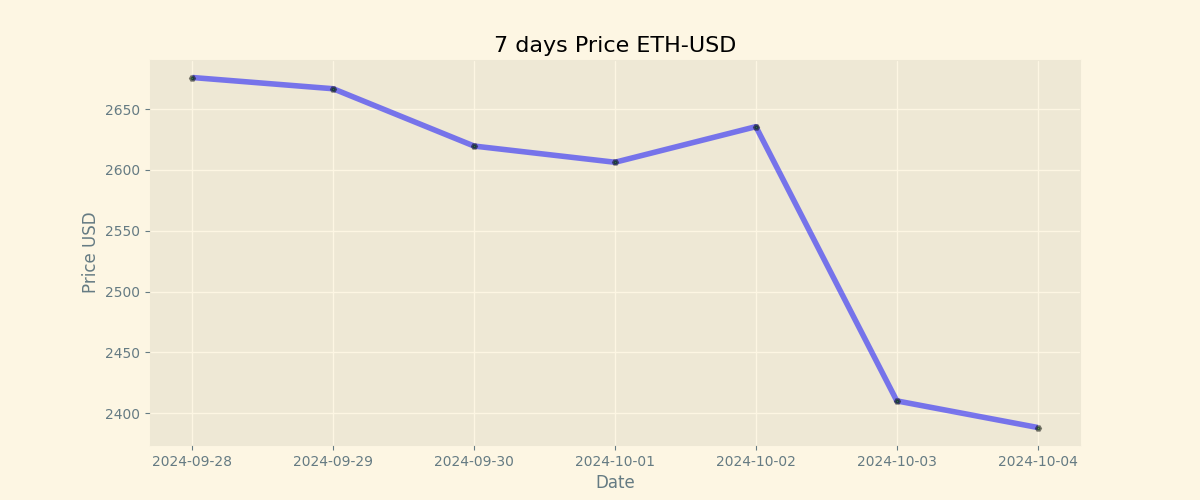
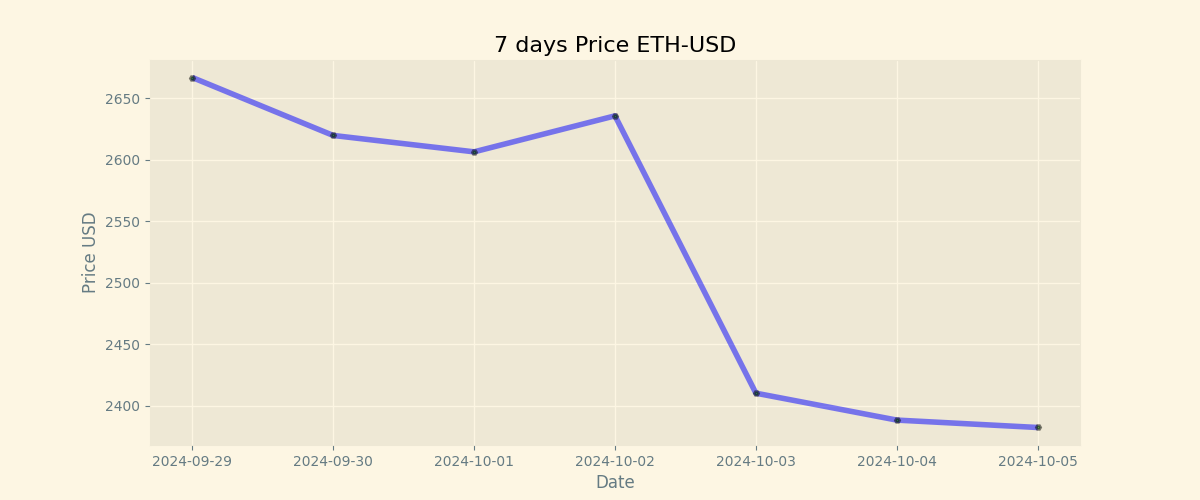
Duty Updates 2024-10-05

diff --git a/README.md b/README.md
@@ -9,8 +9,8 @@
 
 | Currency | Price           |
 | -------- | --------------- |
-| **BTC**  | **$ 60117.0** |
-| **ETH**  | **$ 2388.26** |
+| **BTC**  | **$ 61197.03** |
+| **ETH**  | **$ 2382.24** |
 
 ## BTC chart
 
